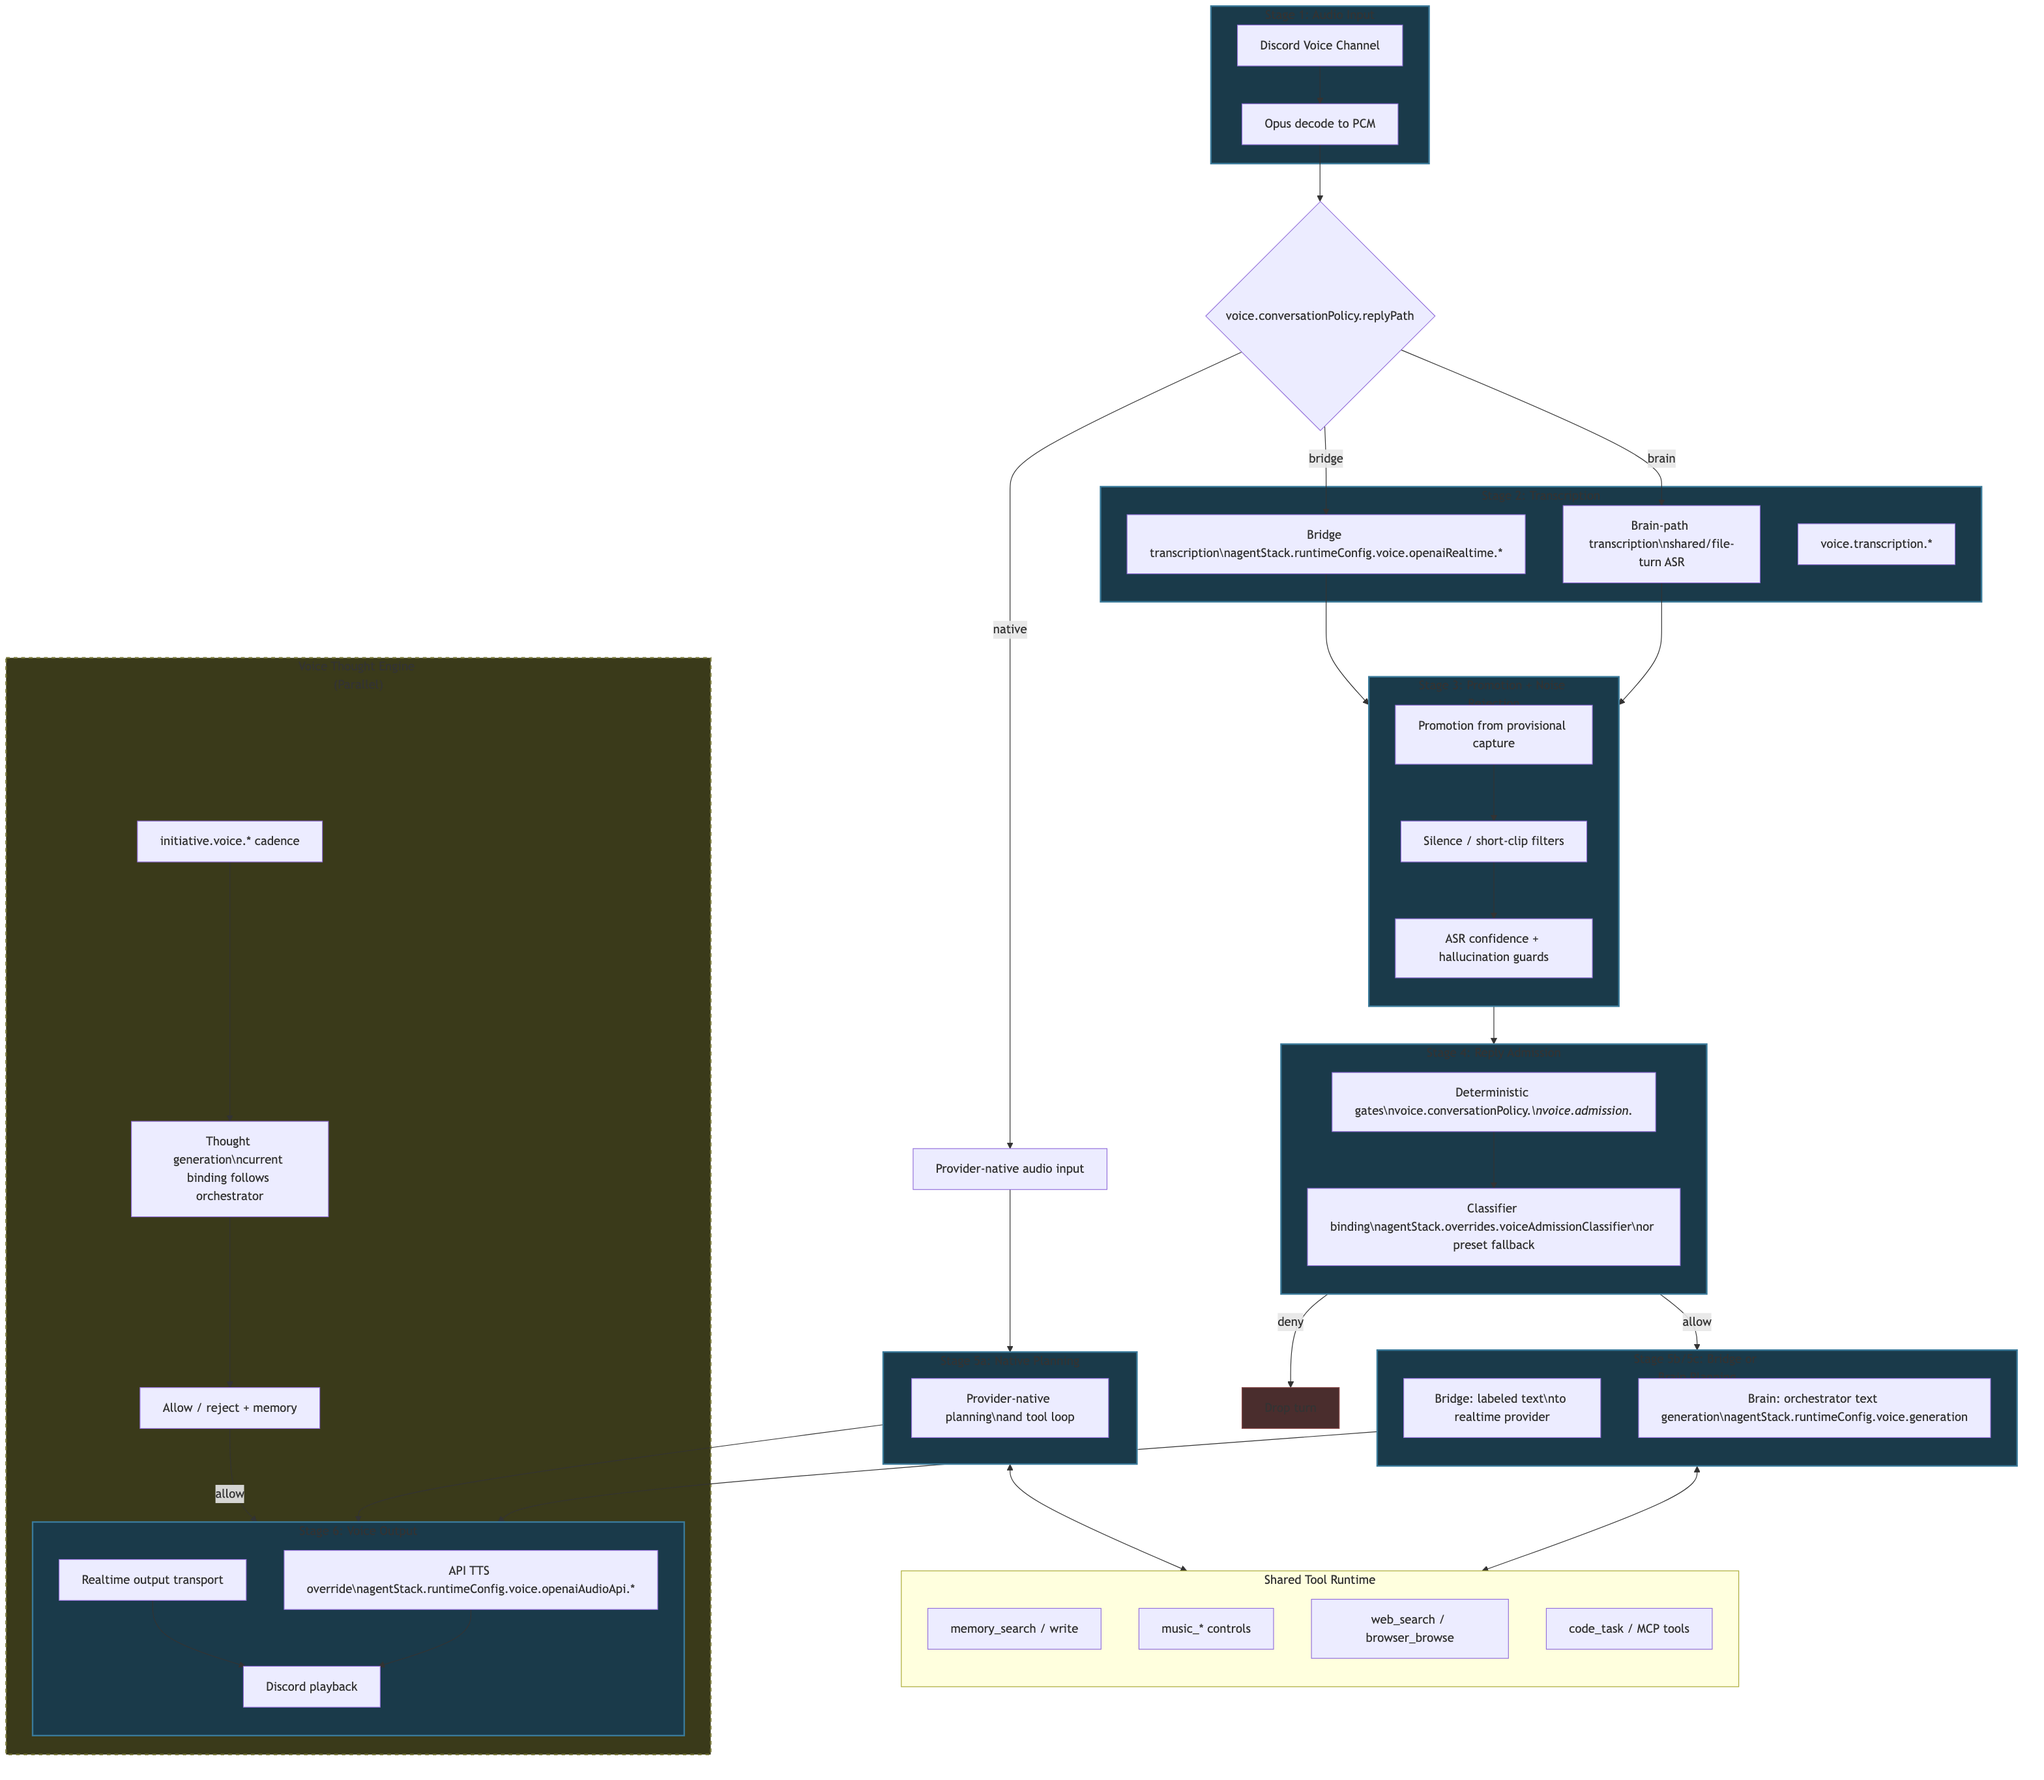
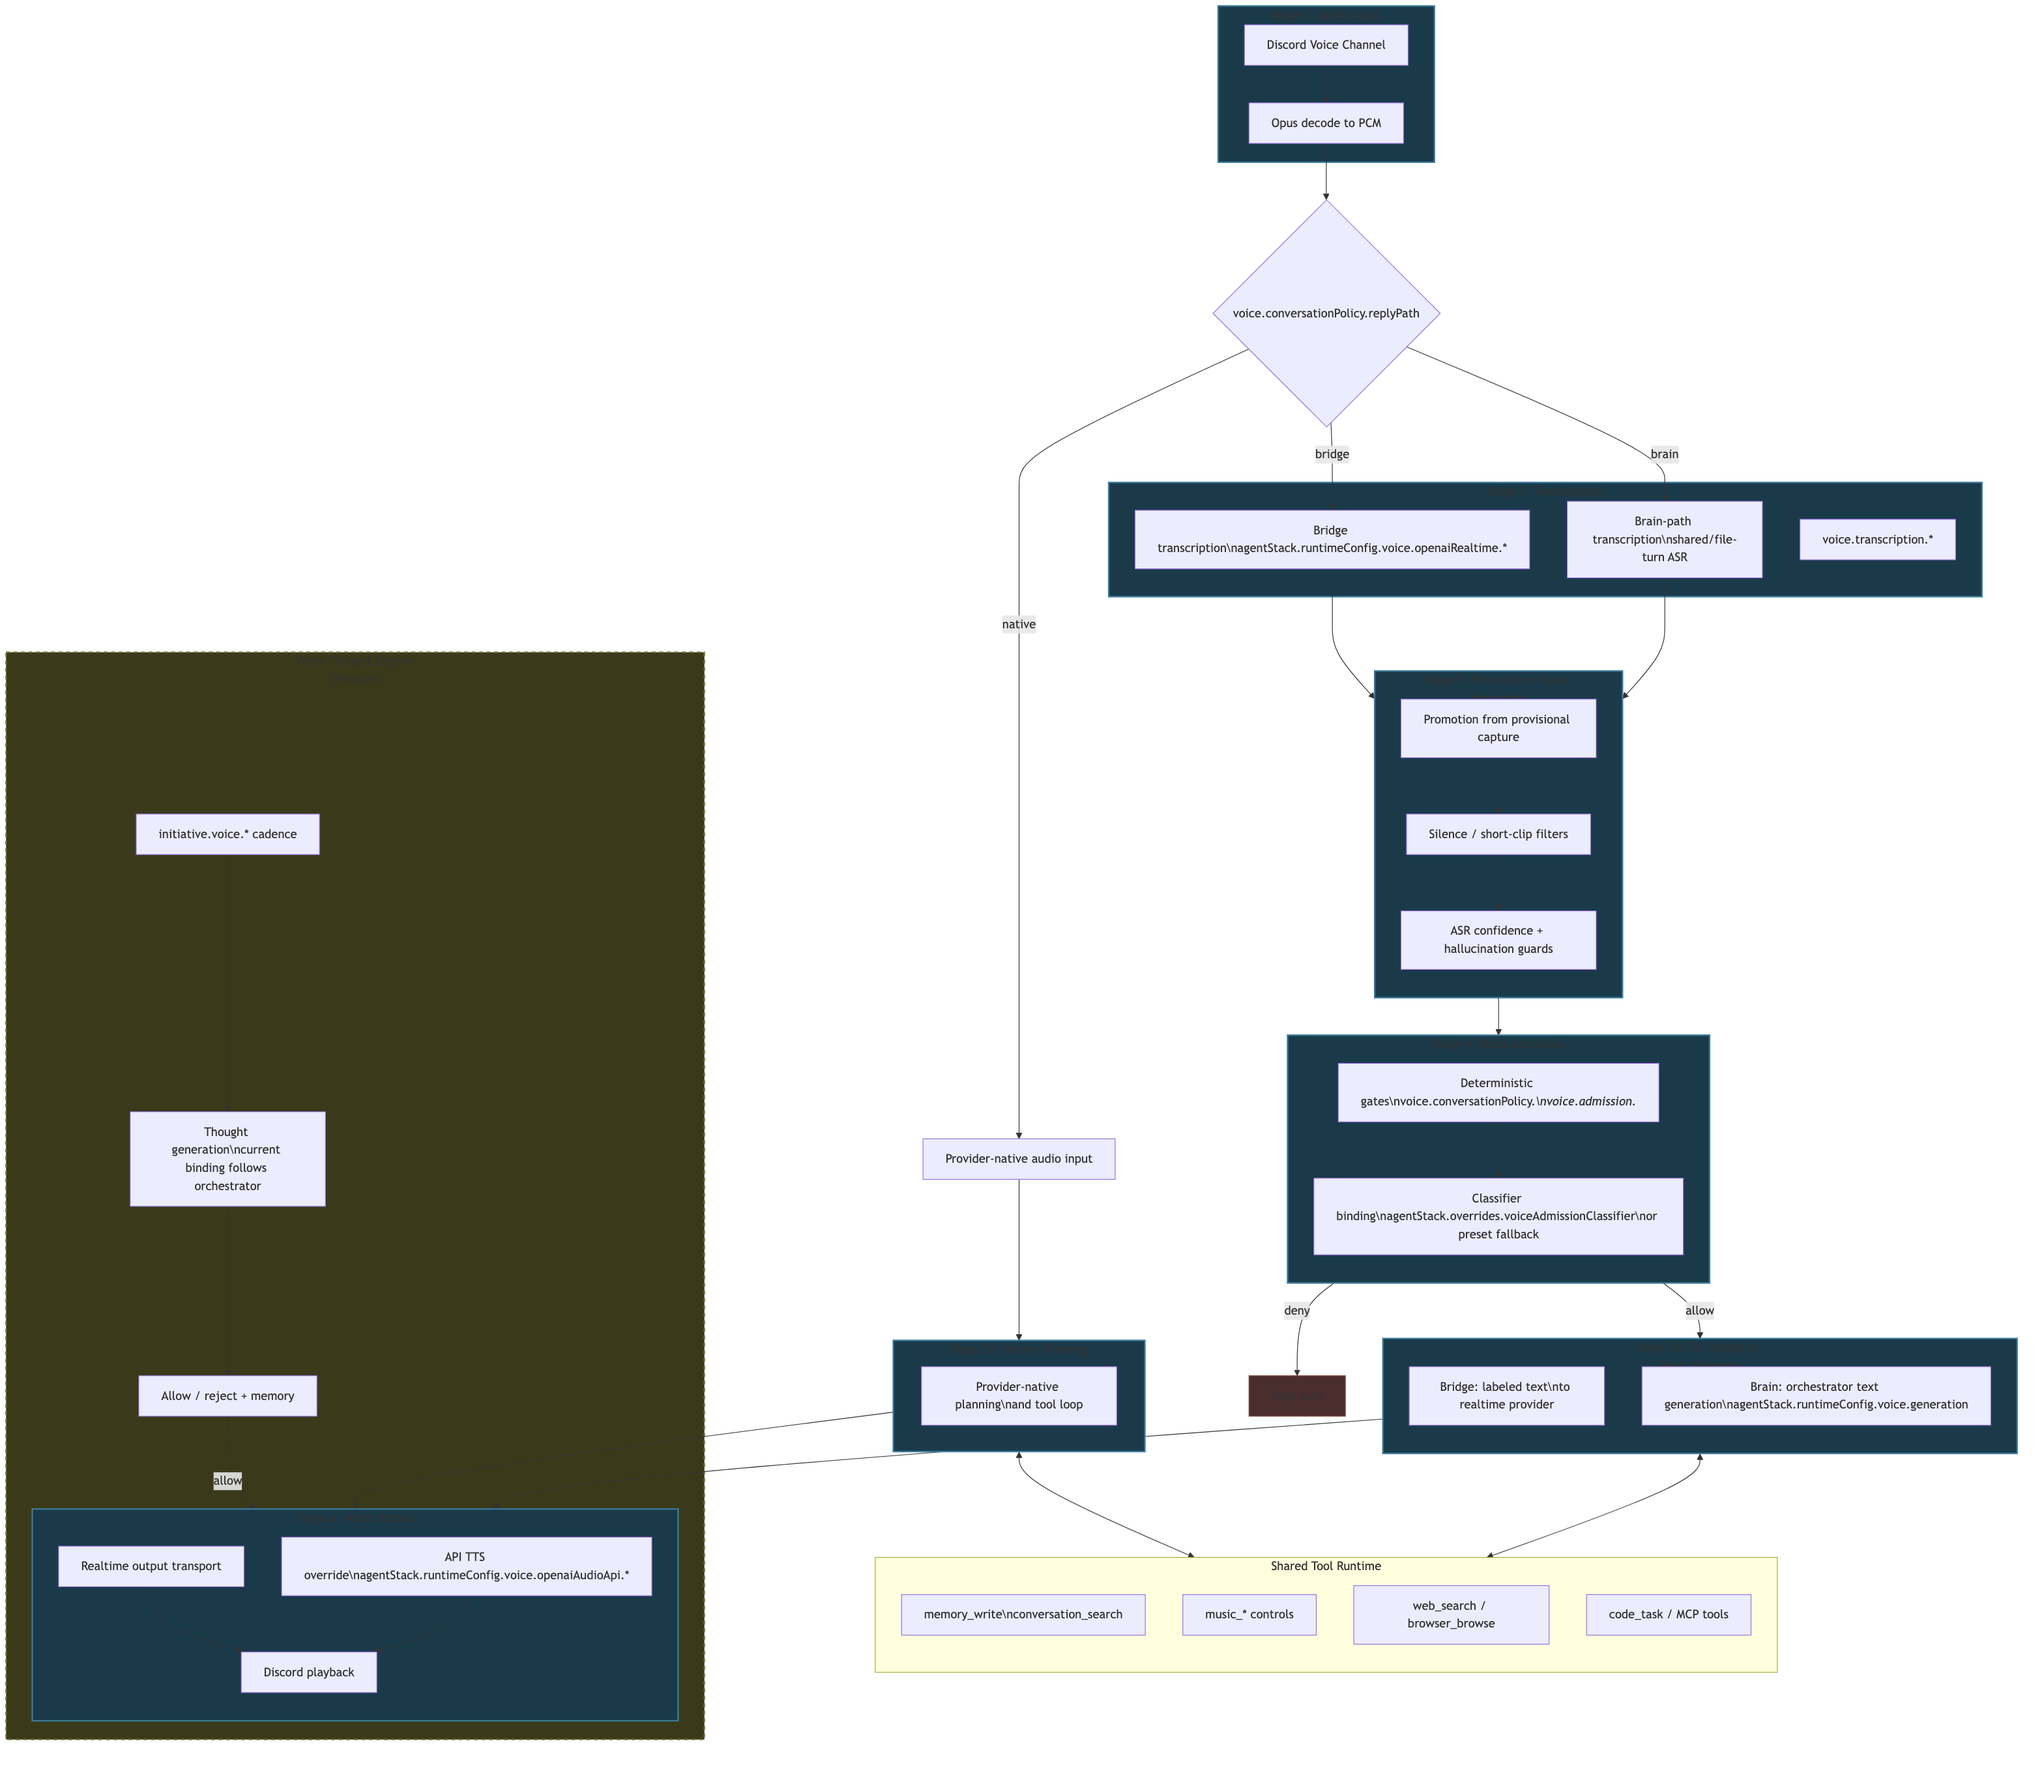
Update documentation for voice memory, stream-watch, and initiative changes
Reflects removal of memory_search from voice tool surface, session-scoped
caching strategy, stream-watch commentary behavior, initiative cooldown
semantics, and voice memory attribution logging guidance.

diff --git a/docs/memory-system.md b/docs/memory-system.md
@@ -46,6 +46,7 @@ The brain notices something important mid-conversation and stores it immediately
 - All scopes: `confidence = 0.72`, grounding check, instruction-injection rejection.
 - Execution path: tool call → memory fact write path → `store.addMemoryFact()` → async embedding → archive aged facts → markdown refresh.
 - In voice: the affected user's cached profile is refreshed immediately so the next turn sees the new fact.
+- In voice: prefer session-scoped `note_context` for facts that only need to stay available for the rest of the conversation. Reserve `memory_write` for explicit "remember this" requests or obviously durable facts.
 
 **Strengths:** Immediate. Agent-driven. **Gap:** Spotty in fast-moving voice sessions — the model is focused on responding, not archiving.
 
@@ -92,6 +93,9 @@ Fact profiles are loaded for **all participants**, not just the current speaker.
 - On every generation turn, all participants' facts are included in the prompt.
 - The current speaker gets full facts. Other participants get a compact summary of key facts.
 - Lore (`__lore__`) and self-facts (`__self__`) are loaded at session start and refreshed on `memory_write`.
+- Behavioral facts are cached as a session-scoped fact pool keyed by the active participant set. Spoken generation reranks that pool with the normal hybrid semantic+lexical scoring path, reusing cached fact vectors instead of refetching the pool every turn, and `memory_write` invalidates the pool.
+- Conversation-history retrieval keeps short per-session caches per retrieval mode. Same-topic follow-ups reuse recent results, and low-signal backchannels reuse the freshest cached history or skip retrieval entirely instead of re-querying memory.
+- Voice also has a session-scoped scratchpad via `note_context`. This keeps short-term plans/preferences/relationships live without promoting them to durable memory mid-conversation.
 
 **Text:**
 - Fact profiles are loaded for everyone who appears in the recent message window, not just the message author.
@@ -119,18 +123,20 @@ The model sees people, not "current speaker" vs "others." It can cross-reference
 Past conversations are retrieved by topic similarity at context assembly time, without the model calling a tool. This runs in parallel with fact profile loading and other I/O.
 
 - Conversation windows are embedded at storage time (async, background).
-- At context assembly, the current message/transcript is embedded (~50-100ms) and matched against stored windows via vector similarity.
+- At context assembly, meaningful current messages/transcripts are embedded (~50-100ms) and matched against stored windows via vector similarity.
 - Top 2-3 relevant past conversations are included in the prompt.
-- Runs on every turn — the embedding call is cheap and parallelized with other I/O.
+- Low-signal follow-ups like backchannels do not force a fresh semantic lookup every turn; the bot reuses recent same-topic recall when it already has it.
 
 The model references past conversations naturally, like genuine recall: "Oh yeah, we talked about that last week" — not "let me search my history."
 
 ### Fallback tools
 
-`memory_search` and `conversation_search` remain available as tools for cases the auto-retrieval doesn't cover:
+Text and automation runs keep `memory_search` and `conversation_search` as fallback tools for cases the auto-retrieval doesn't cover:
 - Cross-subject queries ("what do I know about Rust?" across all users)
 - Deeper lookups beyond the auto-retrieval's top-k
 - Broader time ranges or guild-wide conversation search
+
+Voice keeps `conversation_search` for "what did we say earlier?" style recall, but does not expose `memory_search` as a live tool. Same-session continuity should come from the auto-retrieved context plus `note_context`, not a manual durable-memory search on every spoken turn.
 
 These are fallbacks, not primary access paths. The model shouldn't need to search its own memory for the common case.
 
@@ -183,7 +189,8 @@ Lore is stored under the special subject `__lore__`, not as a separate fact type
 **Behavioral facts** — standing instructions about how to act:
 - Types: `guidance`, `behavioral`.
 - `guidance` facts are always included in the prompt (light, few of them — style/tone context the bot reasons about on every turn).
-- `behavioral` facts are contextually retrieved — only included when the current turn's content is relevant (prevents bloating every prompt with trigger/action rules). Uses the same embedding similarity as conversation retrieval.
+- `behavioral` facts are contextually retrieved — only included when the current turn's content is relevant (prevents bloating every prompt with trigger/action rules).
+- In voice sessions, the bot loads the scoped behavioral fact pool once, reranks it locally against each transcript, and refreshes that pool on `memory_write` or participant-set changes.
 - Subject scoping: `__lore__` for server-wide behavioral rules, user ID for per-person rules.
 - FIFO eviction, same as contextual.
 
@@ -306,6 +313,6 @@ Action log kinds: `memory_fact`, `memory_reflection_start`, `memory_reflection_c
 | `src/memory/dailyReflection.ts` | End-of-day reflection logic |
 | `src/store/store.ts` | `memory_facts` schema, query/update methods |
 | `src/tools/replyTools.ts` | `memory_write`, `memory_search`, `conversation_search` text tools |
-| `src/voice/voiceToolCallMemory.ts` | Voice `memory_search` and `memory_write` handlers |
+| `src/voice/voiceToolCallMemory.ts` | Voice `memory_write` and `conversation_search` handlers |
 | `src/bot.ts` | Ingest triggers, reflection scheduling |
 | `src/voice/voiceSessionManager.ts` | Voice transcript ingestion, session fact profile caching |

diff --git a/docs/logs.md b/docs/logs.md
@@ -71,6 +71,48 @@ Filter examples:
 {job="clanker_runtime",agent="voice",level="error"}
 ```
 
+## Voice memory attribution
+
+When voice feels redundant or expensive, attribute memory work before changing
+prompting behavior.
+
+Start with these events:
+
+- `voice_generation_memory_loaded`
+- `voice_realtime_instruction_memory_loaded`
+- `memory_embedding_call`
+
+Suggested query:
+
+```logql
+{job="clanker_runtime",kind=~"voice_runtime|memory_embedding_call"}
+```
+
+Inspect these metadata fields together:
+
+- `memorySource`
+- `traceSource`
+- `continuityLoadMs`
+- `behavioralMemoryLoadMs`
+- `totalLoadMs`
+- `usedCachedBehavioralFacts`
+- `userFactCount`
+- `relevantFactCount`
+- `behavioralFactCount`
+
+Interpretation notes:
+
+- `voice_generation_memory_loaded` is the orchestrator brain path that feeds Claude/OpenAI/etc. generation
+- `voice_realtime_instruction_memory_loaded` is the separate OpenAI/Gemini/xAI realtime instruction refresh path
+- `memory_embedding_call.traceSource` attributes the embedding API call to the caller:
+  - `voice_realtime_behavioral_memory:generation` — behavioral fact retrieval from the brain/generation path (`voiceReplies.ts`)
+  - `voice_realtime_behavioral_memory:instruction_refresh` — behavioral fact retrieval from the realtime instruction refresh path (`instructionManager.ts`)
+  - `voice_realtime_instruction_context` — conversation continuity from instruction refresh
+  - `voice_realtime_generation` — conversation continuity from generation
+  - `memory_query` — explicit memory search tool call
+- in transport_only sessions (brain mode), the instruction refresh path skips memory retrieval entirely — only the generation path should produce embedding calls
+- if both `:generation` and `:instruction_refresh` traces appear on the same turn, the session is provider_native and both paths are expected
+
 ## Voice output incident workflow
 
 When a voice turn is transcribed correctly but the bot does not answer, use the

diff --git a/docs/clanker-activity.md b/docs/clanker-activity.md
@@ -256,7 +256,7 @@ Text channel permissions do not determine which voice channels the bot may join.
 |---|---|
 | `initiative.text.enabled` | Master switch for unified text initiative |
 | `initiative.text.eagerness` | Probability gate before the initiative LLM call |
-| `initiative.text.minMinutesBetweenPosts` | Minimum gap between initiative posts |
+| `initiative.text.minMinutesBetweenPosts` | Minimum gap between initiative considerations |
 | `initiative.text.maxPostsPerDay` | Daily initiative budget |
 | `initiative.text.lookbackMessages` | Per-channel context window size |
 | `initiative.text.allowActiveCuriosity` | Whether `web_search` and `browser_browse` are available |
@@ -280,16 +280,19 @@ Text channel permissions do not determine which voice channels the bot may join.
 
 ## Tool Calling Model
 
-Text and voice share most of the same conversational tool surface. The tools are capabilities the model may choose when they help.
+Text and voice share most of the same conversational tool surface, but voice keeps durable-memory search automatic rather than model-invoked. The tools are capabilities the model may choose when they help.
 
 Shared tools include:
 
 - `conversation_search`
-- `memory_search`
 - `memory_write`
 - `web_search`
 - `browser_browse`
 - `code_task`
+
+Text-only shared tool:
+
+- `memory_search`
 
 Voice-only or voice-centric tools include:
 
@@ -309,7 +312,7 @@ Base initiative defaults from `settingsSchema.ts`:
 
 - `initiative.text.enabled = true`
 - `initiative.text.eagerness = 20`
-- `initiative.text.minMinutesBetweenPosts = 60`
+- `initiative.text.minMinutesBetweenPosts = 360`
 - `initiative.text.maxPostsPerDay = 3`
 - `initiative.voice.enabled = true`
 - `initiative.voice.eagerness = 50`

diff --git a/docs/initiative-unified-spec.md b/docs/initiative-unified-spec.md
@@ -48,7 +48,7 @@ Before the model is consulted, the runtime checks:
 - `initiative.text.enabled`
 - eligible channel pool is non-empty
 - daily cap has not been reached
-- minimum gap since the last initiative post has passed
+- minimum gap since the last initiative consideration has passed
 - the eagerness probability roll passed
 
 Canonical settings:
@@ -60,7 +60,8 @@ Canonical settings:
 
 Implementation note:
 
-- daily-cap and cooldown accounting includes both `initiative_post` and `text_thought_loop_post` action kinds in persisted action history
+- daily-cap accounting includes both `initiative_post` and `text_thought_loop_post` action kinds in persisted action history
+- min-gap cooldown resets after either an `initiative_post`, an `initiative_skip`, or a `text_thought_loop_post`
 
 ### 3. Context Assembly
 
@@ -166,7 +167,7 @@ Behavior guidance comes from memory-backed `guidance` and `behavioral` facts.
 | `initiative.text.enabled` | Master initiative toggle |
 | `initiative.text.execution` | Execution policy for the initiative LLM call |
 | `initiative.text.eagerness` | Probability gate before consultation |
-| `initiative.text.minMinutesBetweenPosts` | Minimum spacing between initiative posts |
+| `initiative.text.minMinutesBetweenPosts` | Minimum spacing between initiative considerations |
 | `initiative.text.maxPostsPerDay` | Daily initiative budget |
 | `initiative.text.lookbackMessages` | Channel context window |
 | `initiative.text.allowActiveCuriosity` | Enables `web_search` and `browser_browse` |

diff --git a/docs/voice/screen-share-system.md b/docs/voice/screen-share-system.md
@@ -151,6 +151,11 @@ When nobody is speaking, the system periodically checks whether to fire a brain 
 
 These triggers don't gate whether the brain speaks — they trigger a normal voice turn where the brain sees the frame + notes and decides whether to comment (or `[SKIP]`). The `autonomousCommentaryEnabled` setting controls whether these proactive triggers fire at all.
 
+Autonomous commentary is treated as optional speech, not as a normal conversational obligation:
+- It does not start while another voice reply is already generating, draining, or deferred.
+- If fresh user speech arrives before commentary audio begins, the commentary is dropped rather than requeued behind the user turn.
+- Deferred stream-watch commentary keeps its original `stream_watch_brain_turn:*` source so the optional-speech interruption rules still apply after a flush delay.
+
 ### Session recap
 
 When a share session ends, the default text model summarizes the accumulated keyframe notes into a one-line memory fact for long-term context.

diff --git a/docs/technical-architecture.md b/docs/technical-architecture.md
@@ -50,12 +50,15 @@ The orchestrator is still tool-using and LLM-driven. The preset system resolves 
 Shared conversational tools:
 
 - `conversation_search`
-- `memory_search`
 - `memory_write`
 - `web_search`
 - `browser_browse`
 - `code_task`
 - media generation tools
+
+Text-only conversational tool:
+
+- `memory_search`
 
 Core routing:
 
